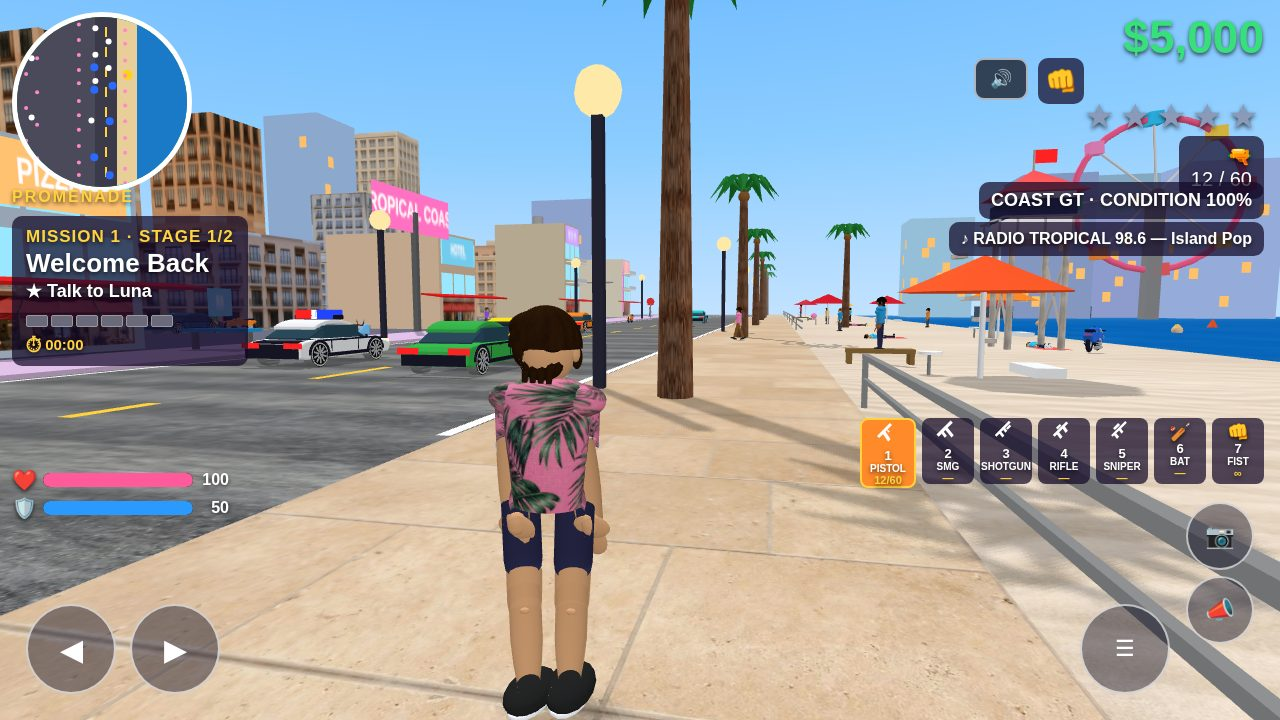
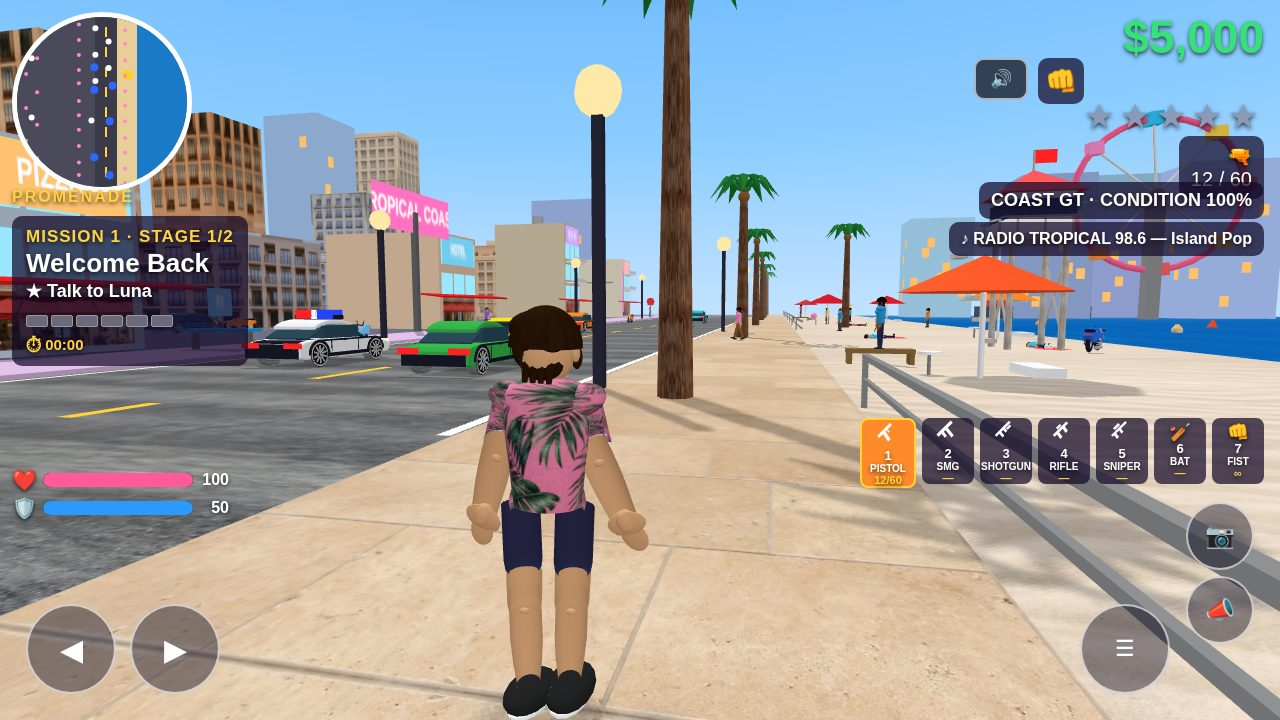
Tropical Coast: arms angled outward, hands clear of hips (round 4)

Changed region(s): [[0.3438, 0.5194, 0.5312, 0.7639], [0.375, 0.9778, 0.4062, 1.0]]

diff --git a/game/src/render.js b/game/src/render.js
@@ -225,10 +225,11 @@ function frame() {
       var wp = mv !== 0 ? Math.sin(t * 10) * 0.5 : 0;
       gito.userData.legL.rotation.x = idle ? -0.05 : wp; gito.userData.legR.rotation.x = idle ? 0.03 : -wp;
       gito.userData.armL.rotation.x = idle ? -0.04 : -wp; gito.userData.armR.rotation.x = idle ? 0.05 : wp;
-      // Idle arms angle OUTWARD — glued to the body, the hands were
-      // invisible from behind. Riding/staging poses restore the inward
-      // angle via stagePose.
-      gito.userData.armL.rotation.z = -0.02; gito.userData.armR.rotation.z = 0.02;
+      // Idle arms angle OUTWARD (0.30 rad) — pivot at the shoulder so
+      // the sleeve top stays merged with the torso while the hands hang
+      // clear of the hips/thighs. Riding/staging poses restore the
+      // inward angle via stagePose.
+      gito.userData.armL.rotation.z = -0.30; gito.userData.armR.rotation.z = 0.30;
       // Neutral on-foot pose — resets anything a riding pose set (bent
       // knees/elbows, head tilt, YXZ lean). The walk branch only
       // overwrites thighs/shoulders, so a seated pose would otherwise

diff --git a/game/src/character.js b/game/src/character.js
@@ -251,7 +251,7 @@ var gito = new THREE.Group();
   collar.position.y = 1.50; gito.add(collar);
   var armL = new THREE.Group(), armR = new THREE.Group();
   armL.position.set(-0.15, 1.44, 0); armR.position.set(0.15, 1.44, 0);
-  armL.rotation.z = 0.01; armR.rotation.z = -0.01;
+  armL.rotation.z = -0.30; armR.rotation.z = 0.30;
   [[armL, -1], [armR, 1]].forEach(function (pair) {
     var ag = pair[0], side = pair[1];
     var shoulder = new THREE.Mesh(new THREE.SphereGeometry(0.098, 16, 12), mShirt);
@@ -335,7 +335,7 @@ var woman = new THREE.Group();
   woman.add(legL); woman.add(legR);
   var armL = new THREE.Group(), armR = new THREE.Group();
   armL.position.set(-0.15, 1.44, 0); armR.position.set(0.15, 1.44, 0);
-  armL.rotation.z = 0.01; armR.rotation.z = -0.01;
+  armL.rotation.z = -0.30; armR.rotation.z = 0.30;
   [[armL, -1], [armR, 1]].forEach(function (pair) {
     var ag = pair[0], side = pair[1];
     var shoulder = new THREE.Mesh(new THREE.SphereGeometry(0.085, 16, 12), wSkin);
